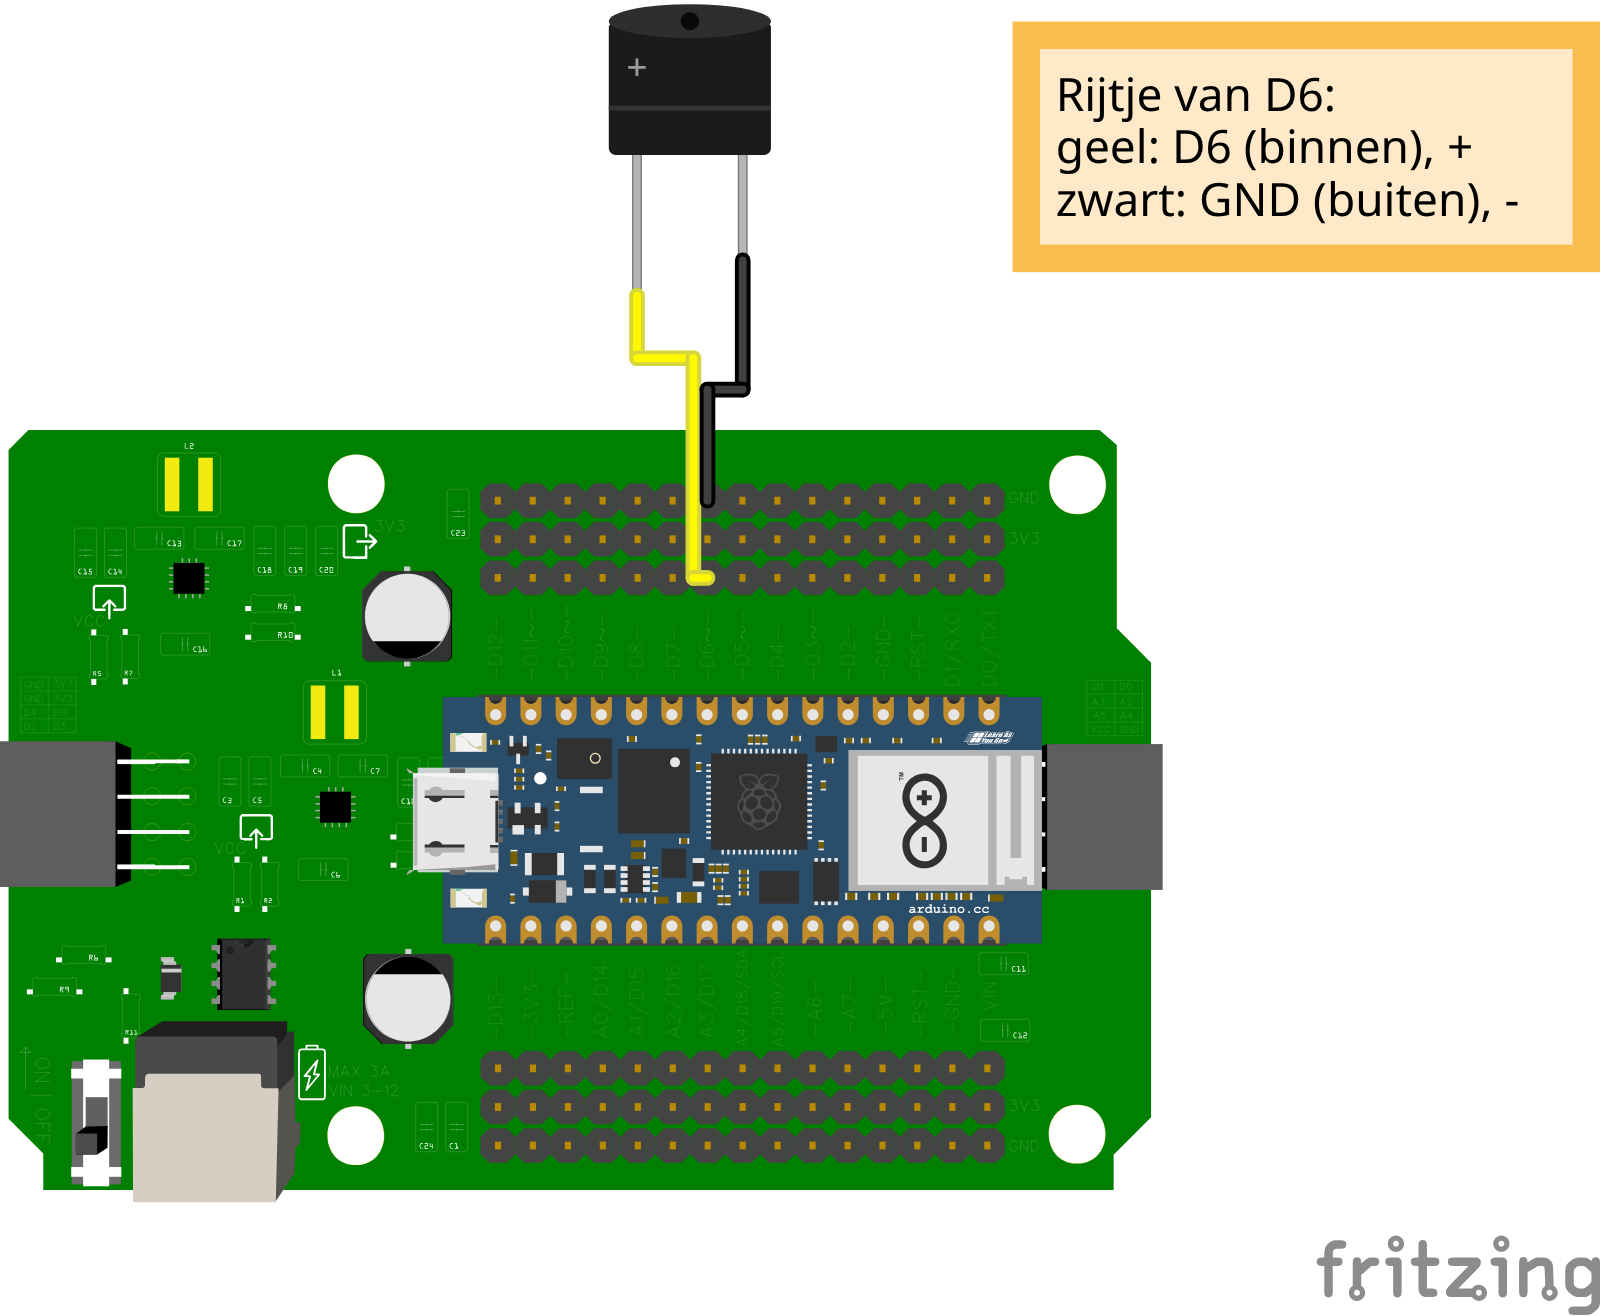
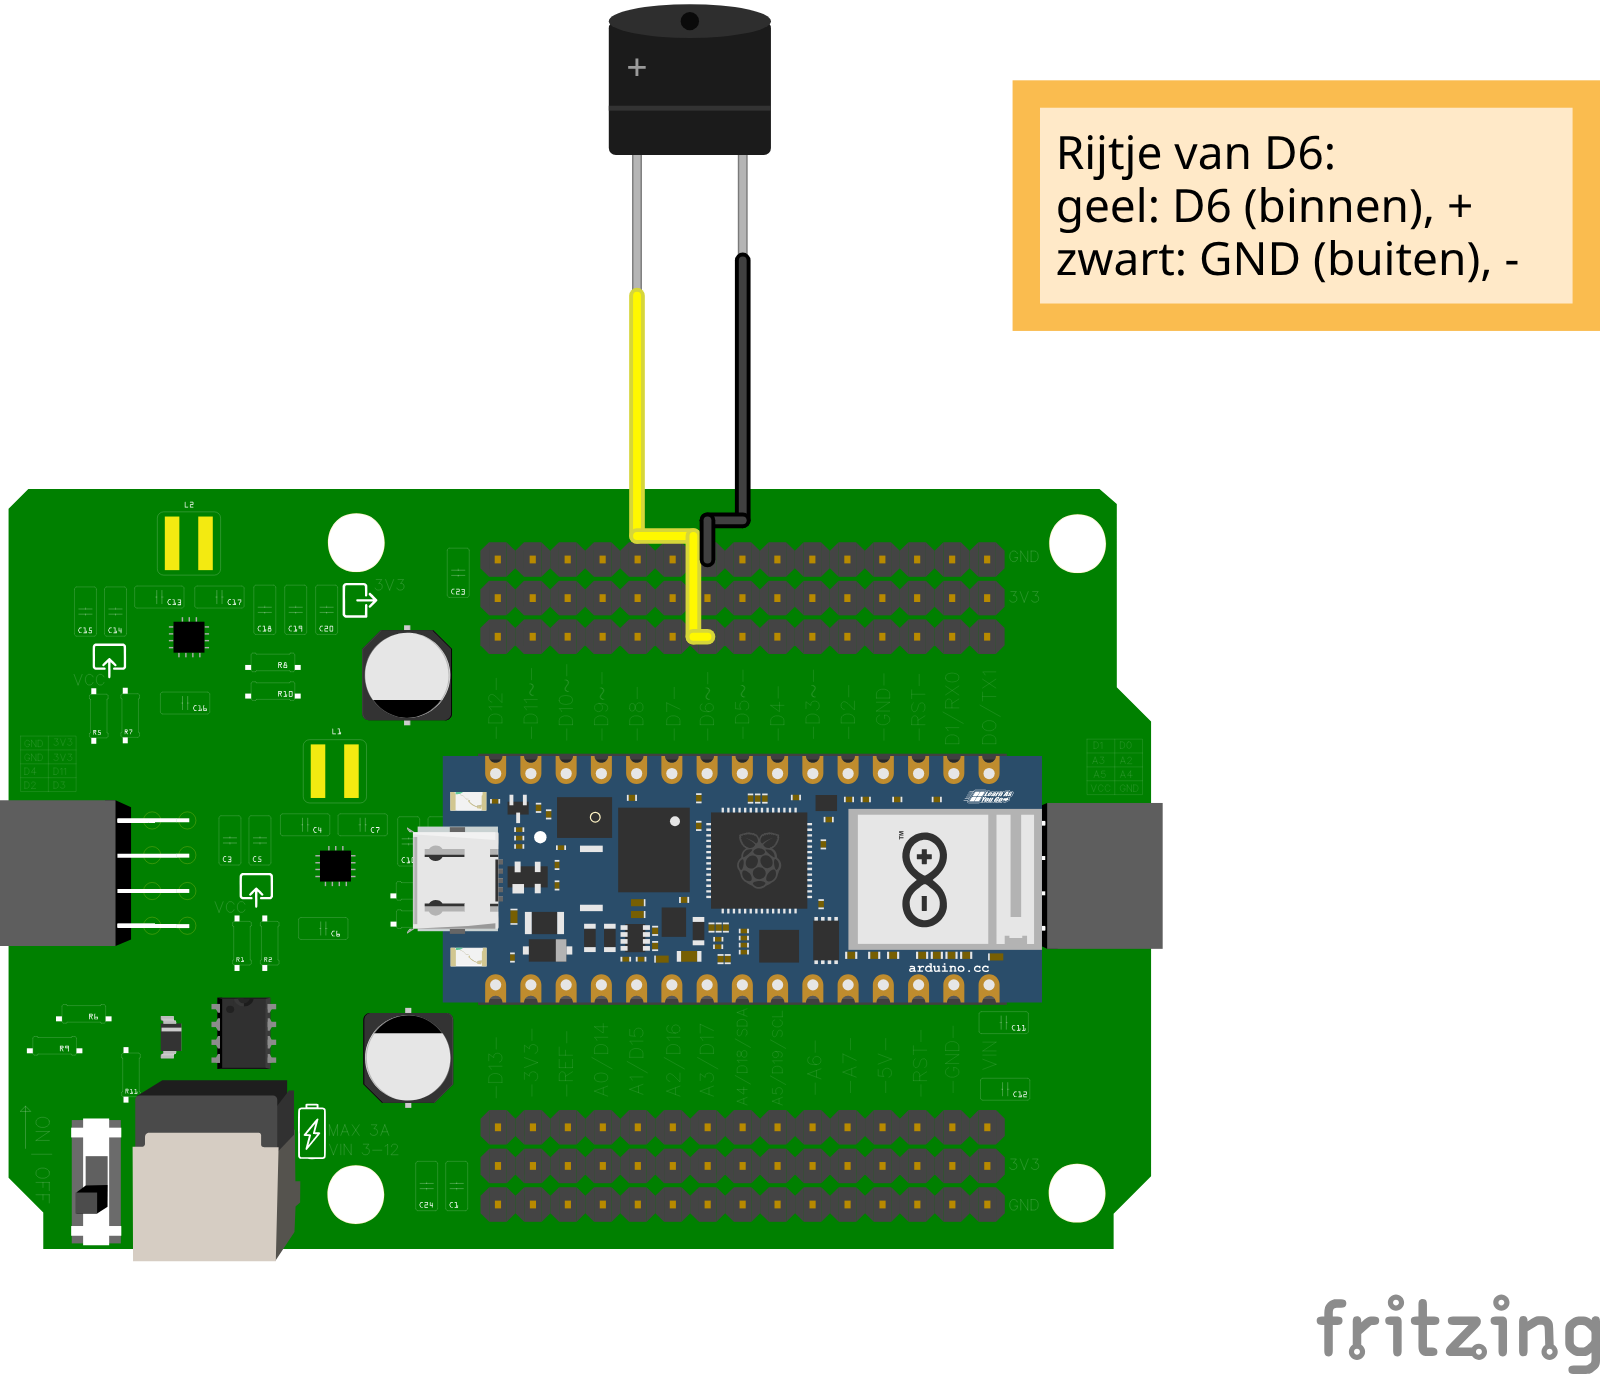
Robotica: jumperdraden verder uit elkaar in de schema's
Draden die dicht naast elkaar liepen, waren niet uit elkaar te houden. Nu
lopen ze naast het shield minstens 8 uit elkaar (bijna een pinafstand): recht
omlaag uit hun pin, of eerst uitwaaierend als de volgorde op het shield anders
is (de afstandssensor, waar Trig over Echo en GND heen moet), en pas vlak
boven het rijtje buigen ze haaks naar hun baan. Over het rijtje zelf blijft
het krap, want daar zitten de pinnen 8,9 uit elkaar.

De router telt naast kruisingen nu ook draden die te dicht naast elkaar lopen,
en zet de afstandssensor op de plek met de meeste ruimte. schemas.test.ts eist
dat draden naast het shield minstens 8 uit elkaar lopen; op de vorige schema's
faalt hij.

Claude-Session: https://claude.ai/code/session_01AmMyeALxEdtqFWgowZCVkR

diff --git a/sites/informatica/robotica/src/lego-tests/schemas.test.ts b/sites/informatica/robotica/src/lego-tests/schemas.test.ts
@@ -169,6 +169,43 @@ describe('de aansluitschema’s staan op het shield', () => {
     expect(fout).toEqual([]);
   });
 
+  it('naast het shield lopen draden ver genoeg uit elkaar', () => {
+    // Twee draden die naast elkaar omlaag lopen, waren niet uit elkaar te houden.
+    // Alleen over het rijtje zelf mogen ze dichter bij elkaar (de pinnen zitten
+    // daar 8,9 uit elkaar); daarbuiten minstens 8.
+    const fout: string[] = [];
+    for (const schema of Object.values(SCHEMAS)) {
+      const fz =
+        [...unzip(join(FRITZING, `${schema}.fzz`))].find(([n]) => n.endsWith('.fz'))?.[1] ?? '';
+      const shield = fz.match(
+        /moduleIdRef="Flitz_shield[^"]*"[\s\S]*?<breadboardView[^>]*>\s*<geometry [^>]*x="([-\d.]+)" y="([-\d.]+)"/,
+      );
+      const [sy0, sy1] = [Number(shield?.[2]), Number(shield?.[2]) + 197.2];
+      const lijnen = [
+        ...fz.matchAll(
+          /<instance moduleIdRef="WireModuleID"[\s\S]*?<breadboardView[^>]*>\s*<geometry [^>]*x="([-\d.e]+)" y="([-\d.e]+)" x1="0" y1="0" x2="([-\d.e]+)" y2="([-\d.e]+)"/g,
+        ),
+      ]
+        .map((m) => m.slice(1, 5).map(Number))
+        .filter(([, , dx, dy]) => Math.abs(dx) < 0.01 && Math.abs(dy) > 0.01)
+        .map(([x, y, , dy]) => ({ x, van: Math.min(y, y + dy), tot: Math.max(y, y + dy) }))
+        // alleen het stuk buiten het shield
+        .map((l) => ({ ...l, tot: Math.min(l.tot, sy0), van2: Math.max(l.van, sy1), tot2: l.tot }))
+        .flatMap((l) => [
+          { x: l.x, van: l.van, tot: l.tot },
+          { x: l.x, van: l.van2, tot: l.tot2 },
+        ])
+        .filter((l) => l.tot - l.van > 1);
+      for (const [i, a] of lijnen.entries())
+        for (const b of lijnen.slice(i + 1))
+          if (Math.min(a.tot, b.tot) - Math.max(a.van, b.van) > 1 && Math.abs(a.x - b.x) < 8)
+            fout.push(
+              `${schema}: draden ${Math.abs(a.x - b.x).toFixed(1)} uit elkaar bij x ${a.x.toFixed(0)}`,
+            );
+    }
+    expect(fout).toEqual([]);
+  });
+
   it('het LED-schema heeft de weerstand', () => {
     const fz =
       [...unzip(join(FRITZING, 'shield_led.fzz'))].find(([n]) => n.endsWith('.fz'))?.[1] ?? '';

diff --git a/sites/informatica/robotica/CLAUDE.md b/sites/informatica/robotica/CLAUDE.md
@@ -15,7 +15,7 @@ Dit is een project waarin leerlingen zelf via een Arduino Nano RP2040 Connect se
 - **De site heeft vier ingangen**, elk in de navbar en als kaart op de homepage: de **Lego-auto** (`lego_auto/`, de leerroute in Python), de **Golfbot** (`golfbot/`, groep 7/8, blokken), **Onderdelen** (`docs/onderdelen/`, naslag) en **RoboCup Junior** (`docs/robocup/`, de wedstrijd Redden Basis). Editor, Cheatsheet, Er gaat iets mis en Robot checken staan onder **Hulp**. Tot november 2026 was de naslag één "Bibliotheek" onder `docs/Microcontrollers/Arduino Nano RP2040 Connect/`, met 44 pagina's in 16 categorieën die allemaal "Tutorial - …" heetten, spaties in de adressen en een sidebar die niemand opende; RoboCup zat daarnaast onder `Competities/RoboCup-Junior/Redden-Basis`. Elk oud adres stuurt door via `omleidingen` in `docusaurus.config.ts`, naar de sectie die het overnam, en `src/lego-tests/onderdelen.test.ts` eist dat voor de hele oude lijst.
 - **De code volgt de leaphymicropython die de online editor installeert** (main van `leaphy-robotics/leaphy-micropython`), niet een oudere. Een pin is een **naam als tekst** (`"D6"`, `"A0"`, `'LED'`): sinds augustus 2025 geeft de bibliotheek hem direct door aan `Pin()`, en een getal is daar het GPIO-nummer van de chip (`6` is het ingebouwde lampje, `9` tot `11` zitten aan de wifi-chip). `read_line_sensor` bestaat sinds mei 2025 niet meer; een digitale IR-sensor lees je met `Pin("D14", Pin.IN)`. `set_buzzer` weigert een toon boven 255 Hz, dus de buzzer gebruikt `PWM` uit `machine`. D18 tot en met D21 (A4 tot en met A7) lopen in MicroPython via de wifi-chip; een ultrasone sensor zit daarom op gewone D-pinnen (`read_distance("D7", "D8")`). `src/lego-tests/leaphy-api.test.ts` toetst elk python-blok in `docs/`, `lego_auto/` en `src/pages/` tegen `src/lego-tests/leaphy-api.json` (de modules en namen van de bibliotheek en de pinnen uit de `pins.csv` van MicroPython): elke import bestaat, elke pin is een naam die het bord kent, `read_distance` op een pin van de chip zelf, geen `set_buzzer` boven 255 Hz, en geen zwarte tekst na `fill("black")` op het OLED-scherm (`text()` is standaard zwart). Komt er een nieuwe versie van de bibliotheek, maak het JSON-bestand dan opnieuw met `scripts/leaphy-api.py` (de stappen staan bovenin dat script) en kijk wat de test zegt.
 - **RoboCup Junior** (`docs/robocup/`) gaat over Redden Basis, de liga voor beginners, en niet over Redden: elke bewering over de baan volgt de spelregels in `static/docs/RoboCupJuniorReddenBasis2025_rev1.pdf`. In november 2026 bleek dat de pagina's de regels van Redden volgden (een aluminiumrand om de zone waar een muur staat, een eindpunt dat je met de tape zou vinden terwijl het een zwarte driehoek is, zwarte ballen terwijl er alleen zilveren geleidende zijn) en dat de gaten en drempels ontbraken die punten opleveren. Nu: één startpagina met de spelregels in het kort en de punten, de materiaallijst, en per uitdaging een pagina in de volgorde van de baan, elk met een "Door naar"-link als laatste regel. De TOF op de multiplexer is de standaard afstandssensor: de code bij de ultrasone sensor gebruikt pin 18 en 19, en dat zijn A4 en A5 van I2C. `src/lego-tests/robocup.test.ts` bewaakt de volgorde, de links, een pagina per hindernis met punten, die feiten uit de spelregels, geen `read_distance` in de RoboCup-pagina's, en in de hele site dat een opsomming van de pinnen van het motor shield D2, D3, D4 en D11 is.
-- **Aansluitschema's staan op het shield**, niet los op de Nano (november 2026). In de les zit de Nano op het Leaphy Murphy Shield, met per pin een rijtje van drie: de pin zelf (binnen, naast de Nano), 3V3 (midden) en GND (buiten); de zes lessen LED, afstandssensor, digitale IR-sensor, servo, buzzer en RGB-LED leggen dat uit met de gedeelde alinea `docs/onderdelen/_delen/shield/rijen.md` (`<ShieldRijen />`). De schema's zijn gemaakt in Fritzing 1.0.8 en staan als bron in `static/fritzing/shield_*.fzz`, met de export ernaast als `shield_*_bb.png`. Een onderdeel krijgt zijn signaal, 3V3 en GND op één rijtje. In het schema heeft elke draad alleen haakse bochten (omlaag, opzij op een eigen hoogte, omlaag), loopt hij in een eigen baan over dat rijtje en eindigt hij precies op zijn pin: GND door het midden naar de buitenste pin, 3V3 en het signaal links of rechts ernaast, langs de pinnen ervoor, met een haakse bocht op de rij van hun eigen pin. Schuine draden waren niet te volgen; de hoogtes zijn zo gekozen dat zo min mogelijk draden kruisen en geen twee draden over dezelfde lijn lopen. Een legenda in het schema zegt welke kleur op welke pin komt: de leerling moet precies zien waar wat moet. Een stekker van drie op het rijtje verborg dat (Fritzing tekent een draad altijd boven een onderdeel); alleen de servo heeft er een, want zijn kabel eindigt echt in een stekker (de Dagu-stekker uit fritzing-parts, rechtop gezet). Een tweede signaalpin (Trig, en G en B van de RGB-LED) krijgt een losse draad naar de binnenste rij van zijn pin. Eerst gingen 3V3 en GND naar het rijtje van een buurpin; de opdrachtgever wil één rijtje per onderdeel. De RCWL-1601, de buzzer en de RGB-LED-module zijn eigen onderdelen in de .fzz (de RCWL is het HC-SR04 uit fritzing-parts, groen en met een andere naam). De RGB-LED zit op D10, D9 en D6 en niet meer op D9, D10 en D12: alleen in die volgorde kruist geen draad een andere. Fritzing laat bij een export een onderdeel weg waarvan de breadboard-SVG geen `<g id="breadboard">` heeft; zo ontbraken de USB-kabel in `nano_rp2040_verbinden.fzz` en het shield in de export, en daarom hebben die in de .fzz-bestanden zo'n laag gekregen. `src/lego-tests/schemas.test.ts` leest de .fzz en eist dat de pinnen op het shield precies de pinnen uit de code van de les zijn (plus GND, en 3V3 bij de sensoren en de servo), dat 3V3 en GND op het rijtje van een signaalpin van het onderdeel zitten, dat Aansluiten het schema toont en die pinnen noemt, dat het LED-schema een weerstand van 220 Ω heeft, en dat geen sensor of actuator nog een `nano_rp2040_`-plaatje heeft.
+- **Aansluitschema's staan op het shield**, niet los op de Nano (november 2026). In de les zit de Nano op het Leaphy Murphy Shield, met per pin een rijtje van drie: de pin zelf (binnen, naast de Nano), 3V3 (midden) en GND (buiten); de zes lessen LED, afstandssensor, digitale IR-sensor, servo, buzzer en RGB-LED leggen dat uit met de gedeelde alinea `docs/onderdelen/_delen/shield/rijen.md` (`<ShieldRijen />`). De schema's zijn gemaakt in Fritzing 1.0.8 en staan als bron in `static/fritzing/shield_*.fzz`, met de export ernaast als `shield_*_bb.png`. Een onderdeel krijgt zijn signaal, 3V3 en GND op één rijtje. In het schema heeft elke draad alleen haakse bochten (omlaag, opzij op een eigen hoogte, omlaag), loopt hij in een eigen baan over dat rijtje en eindigt hij precies op zijn pin: GND door het midden naar de buitenste pin, 3V3 en het signaal links of rechts ernaast, langs de pinnen ervoor, met een haakse bocht op de rij van hun eigen pin. Schuine draden waren niet te volgen, en draden die dicht naast elkaar liepen ook niet: naast het shield lopen draden minstens 8 uit elkaar (recht omlaag uit hun pin, of eerst uitwaaierend als de volgorde op het shield anders is, zoals Trig en Echo), en pas vlak boven het rijtje buigen ze naar hun baan. De hoogtes zijn zo gekozen dat zo min mogelijk draden kruisen en geen twee draden over dezelfde lijn lopen. Een legenda in het schema zegt welke kleur op welke pin komt: de leerling moet precies zien waar wat moet. Een stekker van drie op het rijtje verborg dat (Fritzing tekent een draad altijd boven een onderdeel); alleen de servo heeft er een, want zijn kabel eindigt echt in een stekker (de Dagu-stekker uit fritzing-parts, rechtop gezet). Een tweede signaalpin (Trig, en G en B van de RGB-LED) krijgt een losse draad naar de binnenste rij van zijn pin. Eerst gingen 3V3 en GND naar het rijtje van een buurpin; de opdrachtgever wil één rijtje per onderdeel. De RCWL-1601, de buzzer en de RGB-LED-module zijn eigen onderdelen in de .fzz (de RCWL is het HC-SR04 uit fritzing-parts, groen en met een andere naam). De RGB-LED zit op D10, D9 en D6 en niet meer op D9, D10 en D12: alleen in die volgorde kruist geen draad een andere. Fritzing laat bij een export een onderdeel weg waarvan de breadboard-SVG geen `<g id="breadboard">` heeft; zo ontbraken de USB-kabel in `nano_rp2040_verbinden.fzz` en het shield in de export, en daarom hebben die in de .fzz-bestanden zo'n laag gekregen. `src/lego-tests/schemas.test.ts` leest de .fzz en eist dat de pinnen op het shield precies de pinnen uit de code van de les zijn (plus GND, en 3V3 bij de sensoren en de servo), dat 3V3 en GND op het rijtje van een signaalpin van het onderdeel zitten, dat elke draad recht omlaag of recht opzij loopt, dat draden naast het shield minstens 8 uit elkaar lopen, dat Aansluiten het schema toont en die pinnen noemt, dat het LED-schema een weerstand van 220 Ω heeft, en dat geen sensor of actuator nog een `nano_rp2040_`-plaatje heeft.
 - **Onderdelen versus lego_auto** — twee rollen, twee stijlen:
   - **Onderdelen** (`docs/onderdelen/`) is naslag: complete, vlot uit te voeren scripts die je kunt kopiëren. Eén pagina per onderdeel of handeling, met `## Materiaal`, `## Aansluiten`, `## Code` en waar nodig `## Er gaat iets mis`, en een `description` in de frontmatter. De overzichtspagina (`docs/onderdelen/index.mdx` met `src/components/OnderdelenOverzicht`) leest de groepen en de pagina's uit `onderdelenSidebar`, en de kaart van een pagina uit `sidebar_custom_props` in zijn frontmatter: `kort` (één regel; de description was drie tot vijf regels per kaart), `foto` (een pad onder `docs/onderdelen/img/`, zodat je herkent wat er op tafel ligt), `aansluiting` (digitale pin, I2C, …) en `hulp`. Aan de slag heeft in `sidebars.ts` `customProps: { weergave: 'stappen' }` en wordt een genummerde rij, met Er gaat iets mis (`hulp: true`) als losse regel eronder. Geen DocCardList, want die zet een emoji voor elke titel. `onderdelen.test.ts` eist `kort` bij elke pagina, een foto die bestaat bij elke kaart en een `aansluiting` bij elke sensor en actuator. De groepen in `sidebars.ts` zijn Aan de slag, Sensoren, Actuatoren en Op de robot; een nieuw onderdeel krijgt een plek in een groep, en de test eist dat elke pagina in de map ook in de sidebar staat. Wat lego_auto uit een onderdeel importeert, staat als partial in `docs/onderdelen/_delen/<onderdeel>/` (een map met `_` wordt geen pagina), en zowel de onderdeelpagina als de lego_auto-pagina importeren hem met `@site/docs/onderdelen/_delen/…`: één bron. Eén uitzondering op de naslagstijl: `ingebouwd-lampje` (en `led`) zijn de instap voor wie nog nooit code schreef en bouwen het programma regel voor regel op, met `<Voorkennis>`-links naar de python-cursus.
   - Het **lego_auto**-traject is opbouwend: één groeiend robotscript ("Het robotscript bouwen — Deel N") waarin elke les één of twee nieuwe concepten of regels toevoegt, en dat uitmondt in de lijnvolger. Gebruik nooit een import-stub voor een pagina met python-code; stubs zijn alleen voor hardware- en instructiepagina's zonder code.
